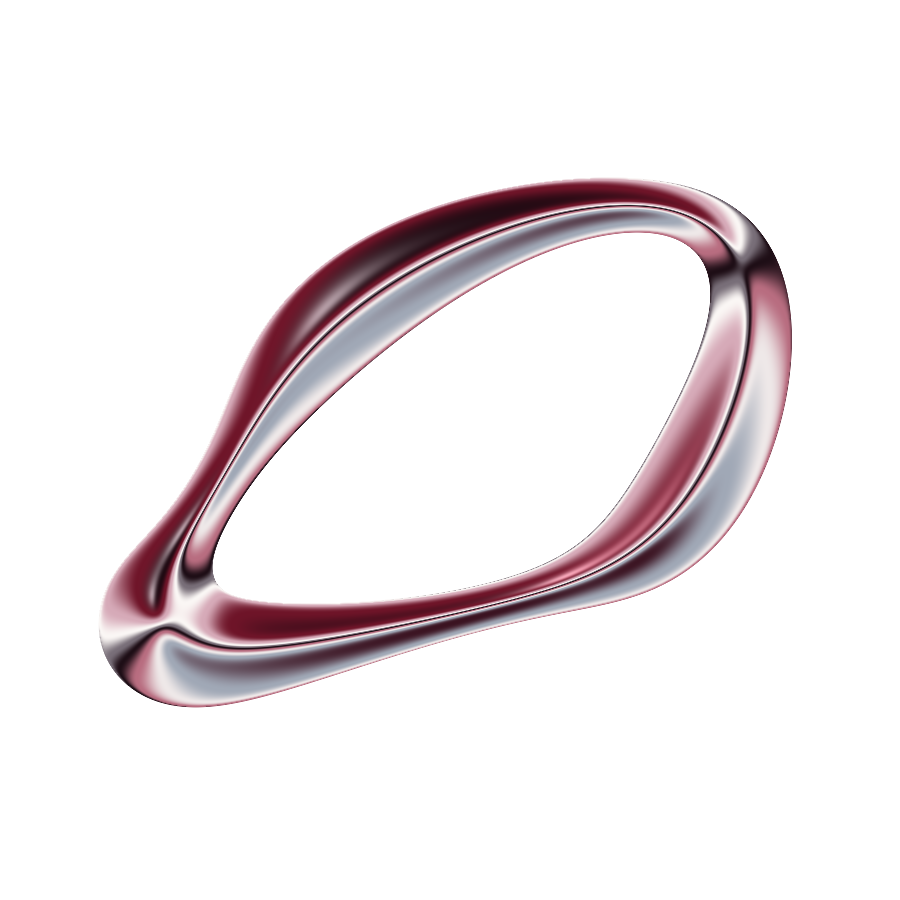
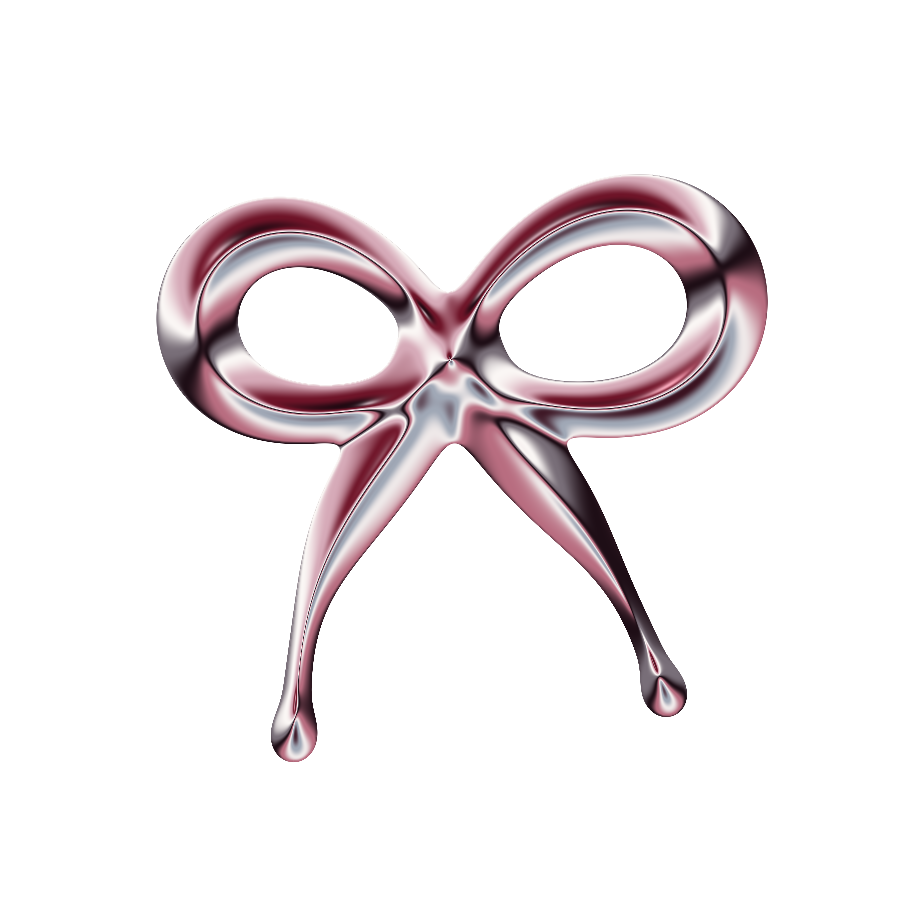
Add files via upload
pita update

Changed region(s): [[0.0933, 0.1867, 0.9022, 0.8711]]

diff --git a/index.html b/index.html
@@ -19,7 +19,7 @@
   <link rel="preconnect" href="https://fonts.googleapis.com">
   <link rel="preconnect" href="https://fonts.gstatic.com" crossorigin>
   <link href="https://fonts.googleapis.com/css2?family=Cormorant+Garamond:ital,wght@0,400;0,500;0,600;1,400;1,500&family=IBM+Plex+Mono:wght@400;500&family=Manrope:wght@400;500;600&display=swap" rel="stylesheet">
-  <link rel="stylesheet" href="css/styles.css">
+  <link rel="stylesheet" href="css/styles.css?v=20261115d">
   <script>document.documentElement.classList.add('js')</script>
 </head>
 <body>
@@ -418,10 +418,10 @@
     <div class="wrap mono"><span>Afrina Zhafirah</span><span>Jakarta, Indonesia</span><a href="#top">Back to top</a></div>
   </footer>
 
-  <script src="js/data.js"></script>
-  <script src="js/work.js"></script>
-  <script src="js/prism.js"></script>
-  <script src="js/main.js"></script>
-  <script src="js/cursor.js"></script>
+  <script src="js/data.js?v=20261115d"></script>
+  <script src="js/work.js?v=20261115d"></script>
+  <script src="js/prism.js?v=20261115d"></script>
+  <script src="js/main.js?v=20261115d"></script>
+  <script src="js/cursor.js?v=20261115d"></script>
 </body>
 </html>

diff --git a/css/styles.css b/css/styles.css
@@ -300,7 +300,8 @@ em { font-style: italic; }
 .hero__lines .nodes circle { fill: #e7dfe0; }
 .hero__top { position: relative; }
 .hero__name, .portrait { position: relative; z-index: 1; }
-.chrome { position: absolute; z-index: 0; left: 43%; top: -9%; width: min(34vw, 62vh); height: auto; filter: drop-shadow(0 24px 40px rgba(20, 4, 10, .55)); animation: float 11s ease-in-out infinite; }
+.hero__foot { position: relative; z-index: 2; }
+.chrome { position: absolute; z-index: 0; left: 40%; top: -12%; width: min(22vw, 40vh); height: auto; filter: drop-shadow(0 24px 40px rgba(20, 4, 10, .55)); animation: float 11s ease-in-out infinite; }
 @keyframes float { 50% { transform: translateY(-9px) rotate(1.2deg); } }
 
 .sec--ivory::before { opacity: .15; background-image: var(--grain); }
@@ -344,7 +345,7 @@ em { font-style: italic; }
 
 @media (max-width: 680px) {
   #experience .gantt__name { background: var(--ivory); }
-  .chrome { left: auto; right: -14%; top: auto; bottom: -6%; width: 62vw; }
+  .chrome { left: auto; right: 2%; top: auto; bottom: -4%; width: 44vw; }
   .hero::before { background-size: 56px 56px; }
 }
 
